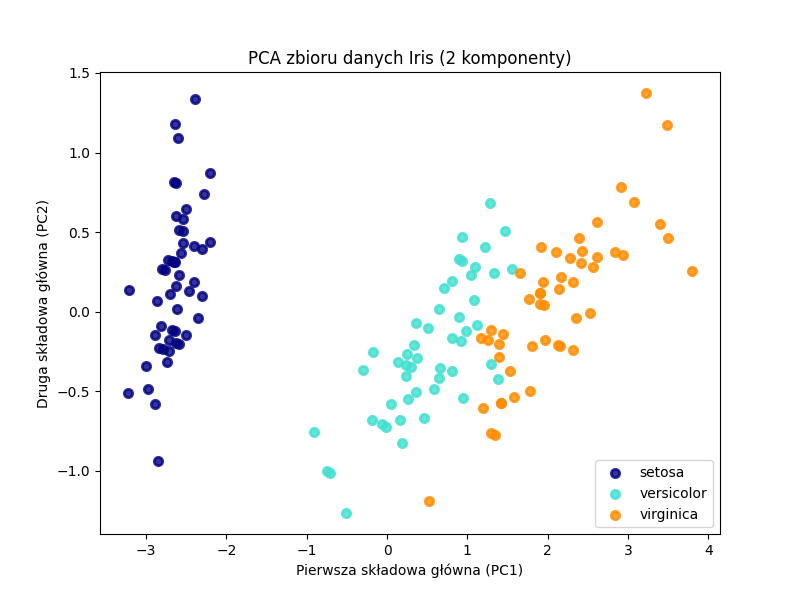
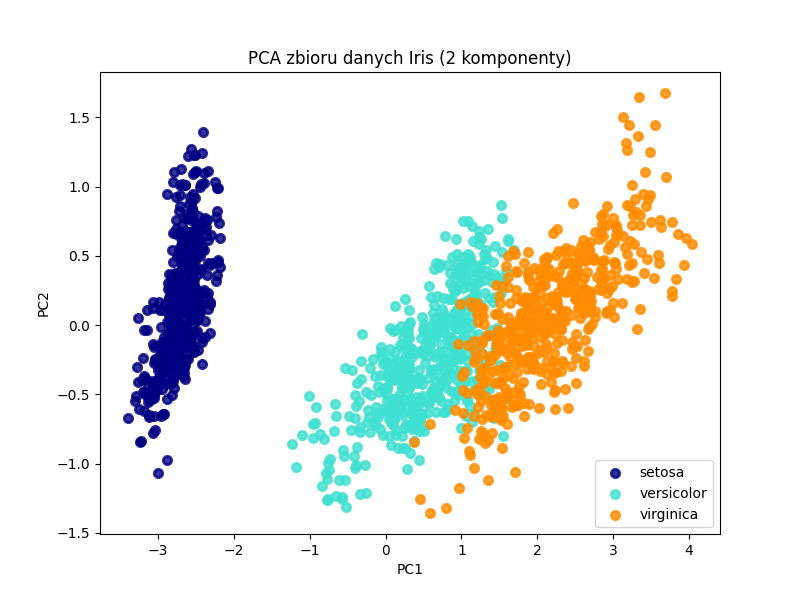
zad-02

diff --git a/lab-02/zad-02.py b/lab-02/zad-02.py
@@ -1,42 +1,41 @@
 import matplotlib.pyplot as plt
-from sklearn import datasets
 from sklearn.decomposition import PCA
 import pandas as pd
 import numpy as np
 
-iris = datasets.load_iris()
-X = pd.DataFrame(iris.data, columns=iris.feature_names)
+iris_df = pd.read_csv("iris_big.csv")
 
-pca_iris = PCA(n_components=4)
-pca_iris.fit(X)
+X = iris_df.iloc[:, 0:4]
+y_labels = iris_df.iloc[:, 4]
 
-variance_ratios = pca_iris.explained_variance_ratio_
+# Konwertujemy gatunki tekstowe na numery (0, 1, 2) dla wykresu
+y = pd.factorize(y_labels)[0]
+target_names = np.unique(y_labels)
 
-print("Wyjaśniona wariancja przez poszczególne kolumny (składowe):")
-for i, ratio in enumerate(variance_ratios):
+pca_full = PCA(n_components=4)
+pca_full.fit(X)
+
+print("Wyjaśniona wariancja przez poszczególne kolumny:")
+for i, ratio in enumerate(pca_full.explained_variance_ratio_):
     print(f"Składowa {i}: {ratio:.4f} ({ratio*100:.2f}%)")
 
 print("\nSkumulowana wariancja:")
-print(np.cumsum(variance_ratios))
+print(np.cumsum(pca_full.explained_variance_ratio_))
 
-X = iris.data
-y = iris.target
-target_names = iris.target_names
-
-pca = PCA(n_components=2)
-X_pca = pca.fit_transform(X)
+pca_2d = PCA(n_components=2)
+X_pca = pca_2d.fit_transform(X)
 
 plt.figure(figsize=(8, 6))
 colors = ['navy', 'turquoise', 'darkorange']
-lw = 2
 
-for color, i, target_name in zip(colors, [0, 1, 2], target_names):
-    plt.scatter(X_pca[y == i, 0], X_pca[y == i, 1], color=color, alpha=.8, lw=lw,
+for color, i, target_name in zip(colors, range(len(target_names)), target_names):
+    plt.scatter(X_pca[y == i, 0], X_pca[y == i, 1], color=color, alpha=.8, lw=2,
                 label=target_name)
 
-plt.legend(loc='best', shadow=False, scatterpoints=1)
+plt.legend(loc='best', shadow=False)
 plt.title('PCA zbioru danych Iris (2 komponenty)')
-plt.xlabel('Pierwsza składowa główna (PC1)')
-plt.ylabel('Druga składowa główna (PC2)')
+plt.xlabel('PC1')
+plt.ylabel('PC2')
 
 plt.savefig('pca_iris_2d.png')
+print("\nWykres został zapisany jako 'pca_iris_2d.png'")
